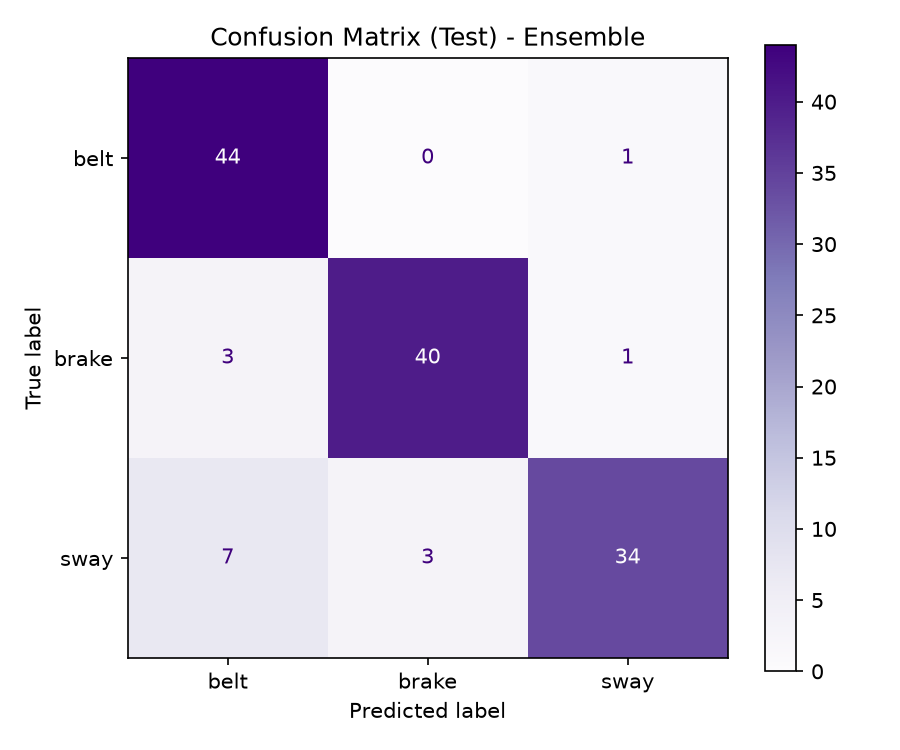
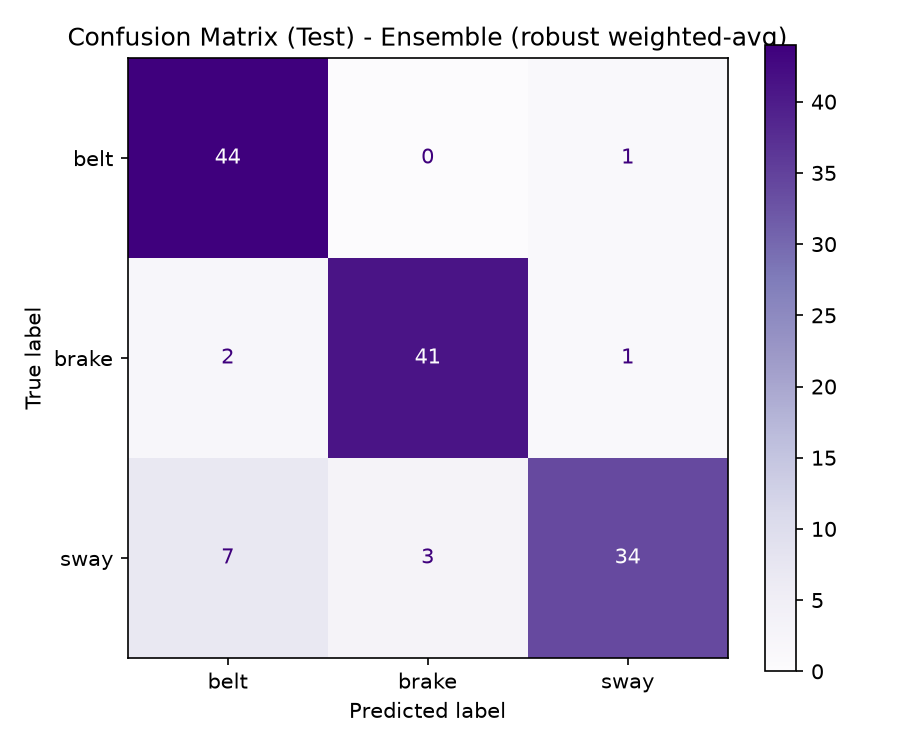
Fix ensemble weight selection and add full-ensemble compression robustness test
Nested 5-fold CV showed the previous stacking-vs-weighted-averaging pick was
noise on the small (134-sample) validation set; deploy weighted-averaging
(Traditional=0.30, CNN=0.60, YAMNet=0.10), which the CV consistently
converged on. Also adds a stress test covering the full fused ensemble
under webm compression (prior tests only covered the standalone
traditional-ML model).

Changed region(s): [[0.0622, 0.0307, 0.8711, 0.0613], [0.4667, 0.46, 0.4978, 0.4907], [0.2489, 0.46, 0.28, 0.4907]]

diff --git a/mic_pipeline_test/test_full_ensemble_compression.py b/mic_pipeline_test/test_full_ensemble_compression.py
@@ -1,0 +1,196 @@
+# -*- coding: utf-8 -*-
+r"""
+===================================================================
+Does the REAL fused ensemble (Traditional ML + CNN + YAMNet, weighted
+0.30/0.60/0.10) hold up under the real mic -> webm -> ffmpeg pipeline?
+===================================================================
+Every prior compression-robustness test in this folder (test_mic_pipeline_
+domain_shift.py, compare_old_vs_full_fix.py, compare_old_vs_compression_
+fix.py) only exercised the standalone traditional-ML model. The CNN was
+separately shown to be compression-fragile pre-augmentation, and now
+holds the LARGEST fusion weight (0.60) in the new robustified ensemble
+config -- so this is the first test of whether the ACTUAL final fused
+decision (what a user sees in the app) survives compression, not just
+one component of it.
+
+Run:
+  cd C:\Users\hp\Desktop\car_test\mic_pipeline_test
+  python test_full_ensemble_compression.py
+"""
+
+import os
+import sys
+import pickle
+import tempfile
+import subprocess
+import warnings
+warnings.filterwarnings("ignore")
+
+import numpy as np
+import pandas as pd
+import librosa
+
+CAR_TEST_DIR = os.path.dirname(os.path.dirname(os.path.abspath(__file__)))
+sys.path.insert(0, CAR_TEST_DIR)
+from audio_common import load_clean_audio, extract_mfcc_vector, extract_log_mel  # noqa: E402
+
+PROC_DIR = r"C:\Users\hp\Desktop\car_test\processed_data"
+COMP_DIR = r"C:\Users\hp\Desktop\car_test\ablation_results\compression_augmented"
+FFMPEG_EXE = r"C:\Users\hp\Desktop\garageai-audio-analysis\venv\Lib\site-packages\imageio_ffmpeg\binaries\ffmpeg-win-x86_64-v7.1.exe"
+if not os.path.exists(FFMPEG_EXE):
+    import imageio_ffmpeg
+    FFMPEG_EXE = imageio_ffmpeg.get_ffmpeg_exe()
+
+WEIGHTS = {"traditional": 0.30, "cnn": 0.60, "yamnet": 0.10}
+N_FILES_PER_CLASS = 5
+WEBM_BITRATES_KBPS = [16, 32, 64]
+TMP_DIR = tempfile.mkdtemp(prefix="full_ensemble_test_")
+
+
+def encode_to_webm(input_wav, output_webm, bitrate_kbps):
+    cmd = [FFMPEG_EXE, "-y", "-loglevel", "error", "-i", input_wav,
+           "-c:a", "libopus", "-b:a", f"{bitrate_kbps}k", output_webm]
+    subprocess.run(cmd, capture_output=True, check=True)
+
+
+def convert_to_wav(input_path, output_path, sample_rate=22050):
+    cmd = [FFMPEG_EXE, "-y", "-loglevel", "error", "-i", input_path,
+           "-ac", "1", "-ar", str(sample_rate), output_path]
+    subprocess.run(cmd, capture_output=True, check=True)
+
+
+def load_everything():
+    config = pickle.load(open(os.path.join(COMP_DIR, "config.pkl"), "rb"))
+    scaler = pickle.load(open(os.path.join(COMP_DIR, "scaler.pkl"), "rb"))
+    trad_model = pickle.load(open(os.path.join(COMP_DIR, "best_traditional_model.pkl"), "rb"))["model"]
+
+    import tensorflow as tf
+    import cnn_model as cnn_model_module  # noqa: F401 -- registers FrequencyAveragePooling/SparseCategoricalFocalLoss
+    cnn_model = tf.keras.models.load_model(os.path.join(COMP_DIR, "cnn_model.keras"), compile=False)
+    mel_stats = pickle.load(open(os.path.join(COMP_DIR, "mel_stats.pkl"), "rb"))
+
+    transfer_saved = pickle.load(open(os.path.join(PROC_DIR, "best_transfer_model.pkl"), "rb"))
+    transfer_model = transfer_saved["model"]
+    transfer_scaler = transfer_saved["scaler"]
+    import tensorflow_hub as hub
+    print("Loading YAMNet (may take a moment)...")
+    yamnet = hub.load("https://tfhub.dev/google/yamnet/1")
+
+    label_encoder = pickle.load(open(os.path.join(PROC_DIR, "label_encoder.pkl"), "rb"))
+    return {
+        "config": config, "scaler": scaler, "trad_model": trad_model,
+        "cnn_model": cnn_model, "mel_stats": mel_stats,
+        "transfer_model": transfer_model, "transfer_scaler": transfer_scaler, "yamnet": yamnet,
+        "label_encoder": label_encoder,
+    }
+
+
+def predict_fused(path, m):
+    config = m["config"]
+    classes = list(m["label_encoder"].classes_)
+
+    y, sr = load_clean_audio(path, target_sr=config["target_sr"], target_duration=config["target_duration"],
+                              fallback_to_untrimmed=True)
+    feats = extract_mfcc_vector(y, sr, n_mfcc=config["n_mfcc"]).reshape(1, -1)
+    feats_scaled = m["scaler"].transform(feats)
+    trad_probs = m["trad_model"].predict_proba(feats_scaled)[0]
+
+    log_mel = extract_log_mel(y, sr, n_mels=config["n_mels"], hop_length=config["hop_length"])
+    log_mel = (log_mel - m["mel_stats"]["mean"]) / (m["mel_stats"]["std"] + 1e-8)
+    log_mel = log_mel[np.newaxis, ..., np.newaxis]
+    cnn_probs = m["cnn_model"].predict(log_mel, verbose=0)[0]
+
+    y16, sr16 = librosa.load(path, sr=16000, mono=True)
+    y16, _ = librosa.effects.trim(y16, top_db=25)
+    if np.max(np.abs(y16)) > 0:
+        y16 = y16 / np.max(np.abs(y16))
+    target_len = int(16000 * 5.0)
+    y16 = y16[:target_len] if len(y16) > target_len else np.pad(y16, (0, target_len - len(y16)))
+    _, frame_embeddings, _ = m["yamnet"](y16.astype(np.float32))
+    embedding = np.mean(frame_embeddings.numpy(), axis=0).reshape(1, -1)
+    embedding_scaled = m["transfer_scaler"].transform(embedding)
+    yamnet_probs = m["transfer_model"].predict_proba(embedding_scaled)[0]
+
+    fused = WEIGHTS["traditional"] * trad_probs + WEIGHTS["cnn"] * cnn_probs + WEIGHTS["yamnet"] * yamnet_probs
+    idx = int(np.argmax(fused))
+    return classes[idx], float(fused[idx]), {
+        "trad": (classes[int(np.argmax(trad_probs))], float(np.max(trad_probs))),
+        "cnn": (classes[int(np.argmax(cnn_probs))], float(np.max(cnn_probs))),
+        "yamnet": (classes[int(np.argmax(yamnet_probs))], float(np.max(yamnet_probs))),
+    }
+
+
+def get_test_files():
+    doc_path = os.path.join(PROC_DIR, "dataset_documentation.csv")
+    df = pd.read_csv(doc_path)
+    test_df = df[df["split_assigned"] == "test"]
+    files = []
+    for cls in ["belt", "brake", "sway"]:
+        rows = test_df[test_df["class"] == cls].head(N_FILES_PER_CLASS)
+        for _, row in rows.iterrows():
+            path = row["matched_path"].replace(r"C:\Users\hp\Downloads\car_test", r"C:\Users\hp\Desktop\car_test")
+            if os.path.exists(path):
+                files.append((cls, path))
+    return files
+
+
+def main():
+    m = load_everything()
+    files = get_test_files()
+    print(f"Testing {len(files)} test-split files across clean + control(wav rt) + {WEBM_BITRATES_KBPS} kbps webm\n")
+
+    rows = []
+    for true_label, path in files:
+        base = os.path.splitext(os.path.basename(path))[0]
+        row = {"file": base, "true_label": true_label}
+
+        pred, conf, detail = predict_fused(path, m)
+        row["clean_pred"], row["clean_conf"], row["clean_correct"] = pred, conf, pred == true_label
+
+        control_wav = os.path.join(TMP_DIR, f"{base}_control.wav")
+        convert_to_wav(path, control_wav, m["config"]["target_sr"])
+        pred, conf, _ = predict_fused(control_wav, m)
+        row["control_pred"], row["control_conf"], row["control_correct"] = pred, conf, pred == true_label
+
+        for kbps in WEBM_BITRATES_KBPS:
+            webm_path = os.path.join(TMP_DIR, f"{base}_{kbps}k.webm")
+            rt_wav = os.path.join(TMP_DIR, f"{base}_{kbps}k_rt.wav")
+            encode_to_webm(path, webm_path, kbps)
+            convert_to_wav(webm_path, rt_wav, m["config"]["target_sr"])
+            pred, conf, detail = predict_fused(rt_wav, m)
+            row[f"webm{kbps}_pred"] = pred
+            row[f"webm{kbps}_conf"] = conf
+            row[f"webm{kbps}_correct"] = pred == true_label
+            row[f"webm{kbps}_trad"] = f"{detail['trad'][0]}({detail['trad'][1]:.2f})"
+            row[f"webm{kbps}_cnn"] = f"{detail['cnn'][0]}({detail['cnn'][1]:.2f})"
+            row[f"webm{kbps}_yamnet"] = f"{detail['yamnet'][0]}({detail['yamnet'][1]:.2f})"
+
+        rows.append(row)
+        flips = [f"{kbps}k->{row[f'webm{kbps}_pred']}" for kbps in WEBM_BITRATES_KBPS
+                 if row[f"webm{kbps}_pred"] != row["clean_pred"]]
+        flip_note = f"  FLIPPED: {', '.join(flips)}" if flips else ""
+        print(f"  {base:25s} true={true_label:6s} clean={row['clean_pred']}({row['clean_conf']:.2f}) "
+              f"control={row['control_pred']}({row['control_conf']:.2f}){flip_note}")
+
+    df = pd.DataFrame(rows)
+    out_csv = os.path.join(os.path.dirname(os.path.abspath(__file__)), "full_ensemble_compression_results.csv")
+    df.to_csv(out_csv, index=False)
+
+    print("\n" + "=" * 70)
+    print("SUMMARY -- FULL FUSED ENSEMBLE (Traditional=0.30, CNN=0.60, YAMNet=0.10)")
+    print("=" * 70)
+    print(f"{'condition':15s} {'accuracy':>10s} {'mean_conf':>10s} {'n_flipped_from_clean':>22s}")
+    print(f"{'clean':15s} {df['clean_correct'].mean():10.3f} {df['clean_conf'].mean():10.3f} {'-':>22s}")
+    print(f"{'control(wav rt)':15s} {df['control_correct'].mean():10.3f} {df['control_conf'].mean():10.3f} "
+          f"{(df['control_pred'] != df['clean_pred']).sum():22d}")
+    for kbps in WEBM_BITRATES_KBPS:
+        acc = df[f"webm{kbps}_correct"].mean()
+        conf = df[f"webm{kbps}_conf"].mean()
+        flipped = (df[f"webm{kbps}_pred"] != df["clean_pred"]).sum()
+        print(f"{'webm ' + str(kbps) + 'kbps':15s} {acc:10.3f} {conf:10.3f} {flipped:22d}")
+
+    print(f"\nFull per-file results saved to: {out_csv}")
+
+
+if __name__ == "__main__":
+    main()
